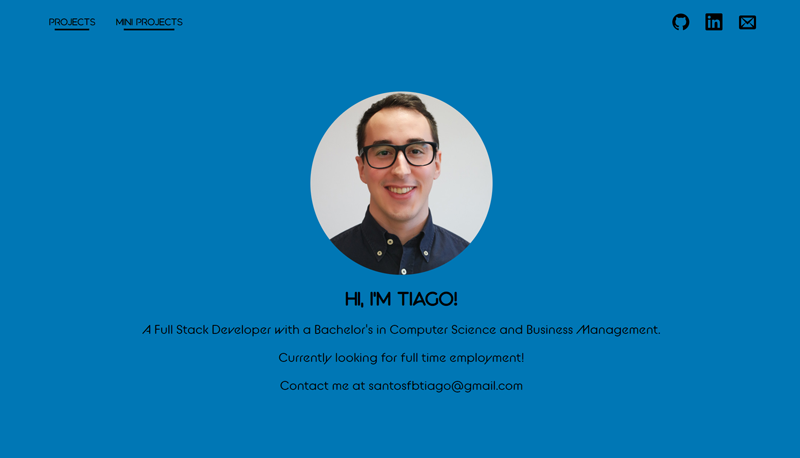
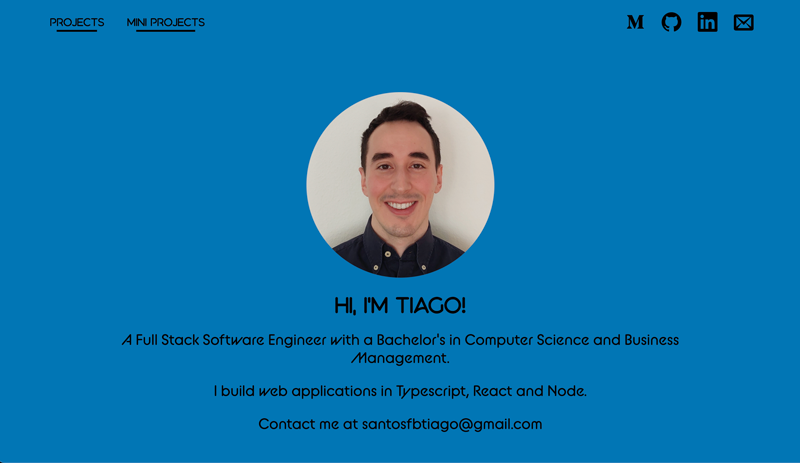
updated info.

diff --git a/src/pages/smart-vision-page.jsx b/src/pages/smart-vision-page.jsx
@@ -45,16 +45,14 @@ const SmartVisionPage = () => {
             <h1 className="projectTitle">Smart Vision</h1>
             <p>
               A <strong>Single Page Responsive Progressive Web App</strong> for
-              detecting faces in pictures and recognizing celebrities, given a
-              photo url.
+              detecting faces in pictures given a photo url.
             </p>
             <p>
               Featuring a <strong>React</strong> frontend and a{" "}
               <strong>Node.js</strong> and <strong>Express.js</strong> backend{" "}
               <strong>RESTful API</strong> with a <strong>PostgreSQL</strong>{" "}
               and <strong>Redis</strong> databases, using the{" "}
-              <strong>Clarifai API</strong> for face detection and celebrity
-              recognition.
+              <strong>Clarifai API</strong> for face detection.
             </p>
             <p>
               With user accounts (register and sign in functionality), and user

diff --git a/src/pages/homepage.jsx b/src/pages/homepage.jsx
@@ -17,7 +17,7 @@ const projectsList = [
     image: SmartVision,
     name: "Smart Vision",
     description:
-      "A React Progressive Web App for detecting faces, and recognizing celebrities in pictures, with a PostgreSQL and Redis databases",
+      "A React Progressive Web App for detecting faces in pictures, with a PostgreSQL and Redis databases",
     source: "https://github.com/tiagofbsantos/smart-vision",
     apiSource: "https://github.com/tiagofbsantos/smart-vision-api",
     live: "https://smartvision.tiagofbsantos.com/",
@@ -39,7 +39,7 @@ const projectsList = [
     image: TiagoSantosCom,
     name: "Tiago F. B. Santos .com",
     description:
-      "A React Progressive Web App portfolio, to showcase my work as a Full Stack Developer",
+      "A React Progressive Web App portfolio, to showcase my work as a Full Stack Software Engineer",
     source: "https://github.com/tiagofbsantos/tiagofbsantoscom",
     apiSource: "",
     live: "",

diff --git a/src/components/about-me/about-me.jsx b/src/components/about-me/about-me.jsx
@@ -8,10 +8,10 @@ const AboutMe = () => {
       <img className="profilePic" alt="Tiago Santos" src={ProfilePic} />
       <h1>Hi, I'm Tiago!</h1>
       <p>
-        A Full Stack Developer with a Bachelor's in Computer Science and
+        A Full Stack Software Engineer with a Bachelor's in Computer Science and
         Business Management.
       </p>
-      <p>Currently looking for full time employment!</p>
+      <p>I build web applications in Typescript, React and Node.</p>
       <p>Contact me at santosfbtiago@gmail.com</p>
     </header>
   );

diff --git a/src/pages/tiagofbsantoscom-page.jsx b/src/pages/tiagofbsantoscom-page.jsx
@@ -29,7 +29,7 @@ const TiagoFBSantosCom = () => {
             <h1 className="projectTitle">Tiago F. B. Santos .com</h1>
             <p>
               The personal portfolio website created to showcase my work as a
-              Full Stack Developer.
+              Full Stack Software Engineer.
             </p>
             <p>
               It's a <strong>Responsive Progressive Web App</strong>, using{" "}
